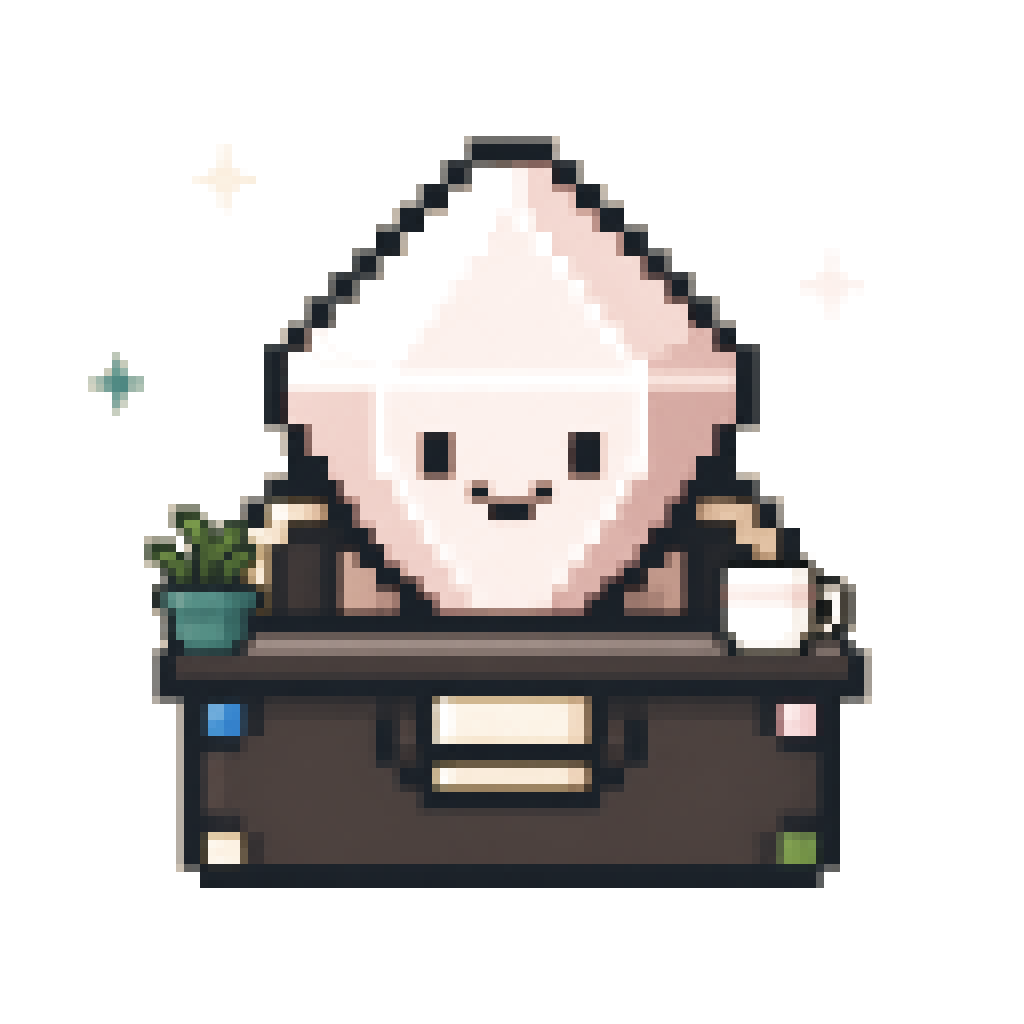
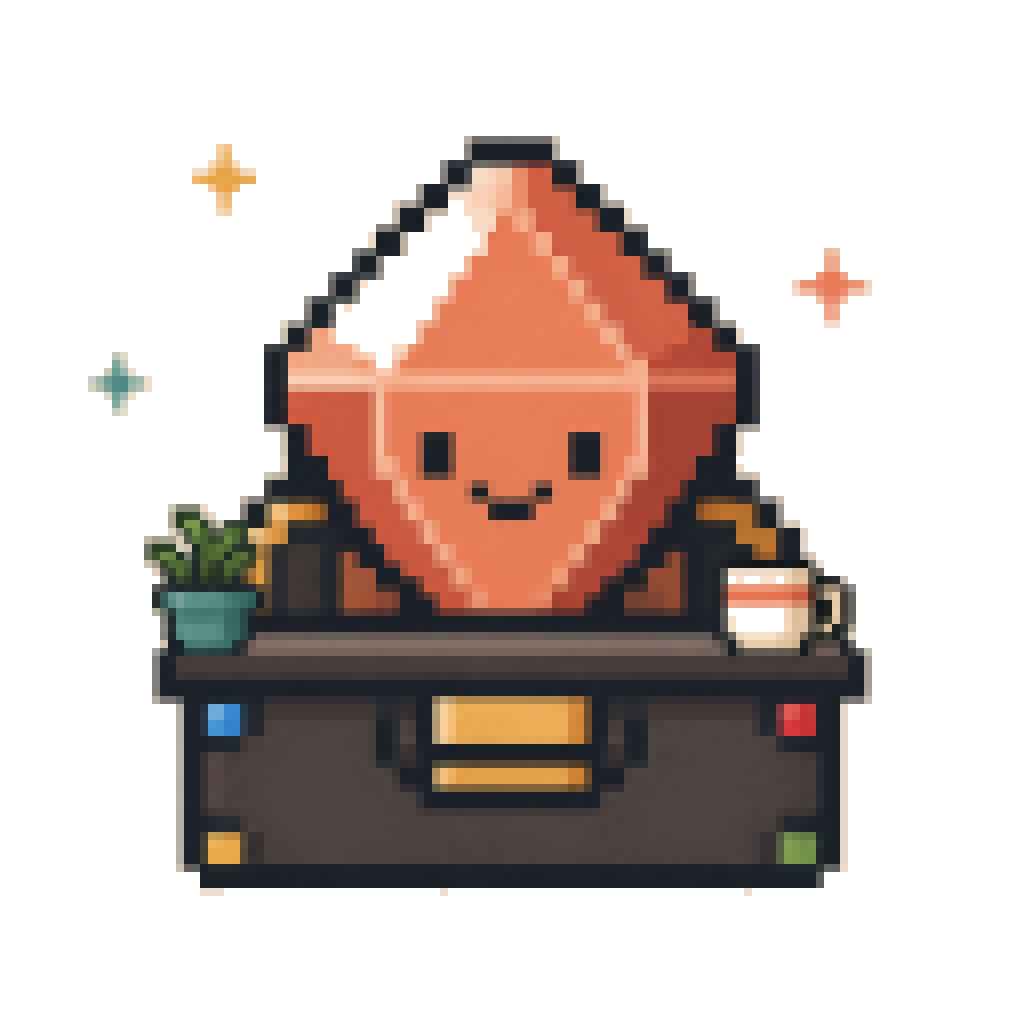
document scalable branches and refine portal identity

diff --git a/apps/portal/src/app/globals.css b/apps/portal/src/app/globals.css
@@ -15,6 +15,7 @@
   --branch: #9a6145;
   --branch-soft: #ead5c6;
   --space: 1rem;
+  --display-font: ui-monospace, "SFMono-Regular", "Cascadia Mono", "Liberation Mono", monospace;
 }
 
 html[data-appearance="dark"] {
@@ -86,7 +87,7 @@ input:focus-visible, select:focus-visible, button:focus-visible, a:focus-visible
 input:disabled, select:disabled { opacity: .72; }
 h1, h2, h3, p { margin-top: 0; }
 h1, h2, h3 { letter-spacing: -.025em; }
-h1, h2 { font-family: Georgia, "Times New Roman", serif; }
+h1, h2 { font-family: var(--display-font); font-weight: 850; }
 p { line-height: 1.58; }
 
 .pixel-panel {
@@ -134,13 +135,13 @@ p { line-height: 1.58; }
 .button.tiny { min-height: 38px; padding: .45rem .8rem; }
 
 /* Shared identity */
-.brand-lockup { align-items: center; display: inline-flex; gap: .7rem; font-family: Georgia, serif; font-size: 1.45rem; font-weight: 700; text-decoration: none; }
+.brand-lockup { align-items: center; display: inline-flex; gap: .7rem; font-family: var(--display-font); font-size: 1.45rem; font-weight: 850; letter-spacing: -.055em; text-decoration: none; }
 .brand-lockup.compact { font-size: 1.15rem; }
 .canonical-mark { border: 2px solid var(--line); border-radius: 3px; image-rendering: pixelated; box-shadow: 3px 3px 0 var(--shadow); }
 .brand-wordmark { align-items: flex-end; display: inline-flex; flex-direction: column; gap: .32rem; text-decoration: none; width: max-content; }
 .brand-wordmark-type {
   color: var(--ink);
-  font-family: ui-monospace, "SFMono-Regular", "Cascadia Mono", "Liberation Mono", monospace;
+  font-family: var(--display-font);
   font-size: 1.72rem;
   font-weight: 950;
   letter-spacing: -.075em;
@@ -163,16 +164,16 @@ p { line-height: 1.58; }
 .login-shell { display: grid; grid-template-columns: minmax(0, 1.18fr) minmax(380px, .82fr); min-height: 100vh; }
 .login-illustration { background: #dfd2bd; border-right: 3px solid var(--line); min-height: 100vh; overflow: hidden; padding: 2.2rem 3rem; position: relative; }
 .login-panel { align-items: center; background: var(--paper); display: flex; justify-content: center; padding: 3rem; }
-.login-panel-inner { display: grid; gap: 1.3rem; justify-items: center; max-width: 540px; width: 100%; }
-.login-brand-lockup { align-items: center; display: flex; flex-direction: column; gap: .25rem; }
-.login-brand-mark { height: 112px; image-rendering: pixelated; object-fit: contain; width: 112px; }
+.login-panel-inner { max-width: 540px; width: 100%; }
+.login-brand-lockup { align-items: center; display: flex; flex-direction: column; gap: .25rem; margin-bottom: 2.3rem; }
+.login-brand-mark { height: 104px; image-rendering: pixelated; object-fit: contain; width: 104px; }
 .login-brand-lockup .brand-wordmark { align-items: center; }
 .login-brand-lockup .brand-wordmark-studs { margin-right: 0; }
-.login-card { background: var(--paper-strong); max-width: 540px; padding: clamp(1.6rem, 4vw, 2.7rem); width: 100%; }
+.login-card { background: var(--paper-strong); display: flex; flex-direction: column; justify-content: center; max-width: 540px; min-height: min(820px, calc(100vh - 6rem)); padding: clamp(1.8rem, 4vw, 3rem); width: 100%; }
 .login-card-heading { display: block; }
-.login-card h2 { font-family: ui-monospace, "SFMono-Regular", "Cascadia Mono", monospace; font-size: clamp(1.85rem, 3.2vw, 2.55rem); font-weight: 850; letter-spacing: -.07em; margin: .45rem 0 .75rem; white-space: nowrap; }
+.login-card h2 { font-size: clamp(1.85rem, 3.2vw, 2.55rem); font-weight: 850; letter-spacing: -.07em; margin: .45rem 0 .75rem; white-space: nowrap; }
 .login-copy { bottom: 7%; max-width: 640px; position: absolute; z-index: 2; }
-.login-copy h1 { font-family: ui-monospace, "SFMono-Regular", "Cascadia Mono", "Liberation Mono", monospace; font-size: clamp(3.5rem, 6vw, 6.2rem); font-weight: 900; letter-spacing: -.085em; line-height: .84; margin: .65rem 0 1.35rem; text-shadow: 3px 3px 0 color-mix(in srgb, var(--paper-strong) 72%, transparent); }
+.login-copy h1 { font-size: clamp(3rem, 4.6vw, 4.8rem); font-weight: 900; letter-spacing: -.085em; line-height: .88; margin: .65rem 0 1.35rem; text-shadow: 3px 3px 0 color-mix(in srgb, var(--paper-strong) 72%, transparent); }
 .login-copy p { font-size: 1.05rem; max-width: 580px; }
 .login-office-art { border: 3px solid var(--line); box-shadow: 7px 7px 0 color-mix(in srgb, var(--line) 28%, transparent); height: 36%; image-rendering: pixelated; left: 5%; object-fit: cover; object-position: 50% 48%; position: absolute; top: 13%; width: 91%; }
 .auth-stack { margin-top: 1.6rem; }
@@ -199,7 +200,7 @@ p { line-height: 1.58; }
 .account-chip small { color: var(--muted); font-size: .65rem; font-weight: 600; text-transform: capitalize; }
 .portal-main { margin: 0 auto; max-width: 1500px; padding: clamp(2rem, 5vw, 4.5rem) clamp(1rem, 4vw, 3.5rem) 3rem; }
 .hero-row { align-items: end; display: flex; justify-content: space-between; margin-bottom: 2rem; }
-.hero-row h1 { font-size: clamp(2.8rem, 6vw, 5.6rem); line-height: .95; margin: .4rem 0 .75rem; }
+.hero-row h1 { font-size: clamp(2.8rem, 6vw, 5.6rem); font-weight: 900; letter-spacing: -.08em; line-height: .9; margin: .4rem 0 .75rem; text-shadow: 3px 3px 0 color-mix(in srgb, var(--paper-strong) 72%, transparent); }
 .hero-row p { color: var(--muted); margin: 0; }
 .pair-action { display: flex; flex-direction: column; gap: .35rem; }
 .pairing-ticket { background: var(--paper-strong); border: 2px solid var(--line); box-shadow: 4px 4px 0 var(--shadow); min-width: 300px; padding: 1rem; }
@@ -215,7 +216,7 @@ p { line-height: 1.58; }
 .branch-card { background: var(--paper-strong); overflow: hidden; }
 .branch-header { align-items: center; background: color-mix(in srgb, var(--branch-soft) 65%, var(--paper-strong)); border-bottom: 2px solid var(--line); color: #292622; display: grid; gap: .8rem; grid-template-columns: auto 1fr auto; padding: calc(var(--space) * 1.1); }
 .branch-header .eyebrow { color: #716b62; }
-.branch-header h2 { font-size: 1.6rem; margin: .12rem 0 0; }
+.branch-header h2 { font-size: 1.55rem; font-weight: 850; letter-spacing: -.06em; margin: .12rem 0 0; }
 .branch-swatch { background: var(--branch); border: 2px solid var(--line); box-shadow: 3px 3px 0 color-mix(in srgb, var(--branch) 35%, var(--shadow)); height: 34px; width: 34px; }
 .favorite-button { background: transparent; border: 0; color: var(--line-soft); cursor: pointer; font-size: 1.45rem; padding: .35rem; }
 .favorite-button.active { color: #c88428; text-shadow: 1px 1px 0 var(--line); }
@@ -249,8 +250,6 @@ p { line-height: 1.58; }
 .paper-card { background: var(--paper-strong); padding: 2rem; }
 .empty-state { text-align: center; }
 .empty-state h2 { font-size: 2rem; margin: .45rem 0; }
-.portal-footer { border-top: 2px solid var(--line-soft); color: var(--muted); display: flex; font-size: .7rem; justify-content: space-between; margin-top: 2.5rem; padding-top: 1rem; }
-.portal-footer span { align-items: center; display: flex; gap: .45rem; }
 .center-stage { align-items: center; display: flex; justify-content: center; min-height: 100vh; padding: 2rem; }
 .narrow-card { max-width: 600px; }
 
@@ -356,14 +355,16 @@ p { line-height: 1.58; }
   .login-illustration { border-bottom: 3px solid var(--line); border-right: 0; min-height: 650px; padding: 1.25rem; }
   .login-panel { padding: 2rem 1rem; }
   .login-copy { bottom: 1.75rem; left: 1.25rem; max-width: none; right: 1.25rem; width: auto; }
-  .login-copy h1 { font-size: clamp(2rem, 8.6vw, 2.25rem); letter-spacing: -.095em; overflow-wrap: normal; }
+  .login-copy h1 { font-size: clamp(1.8rem, 7.8vw, 2rem); letter-spacing: -.095em; overflow-wrap: normal; }
   .login-copy .eyebrow { font-size: .61rem; letter-spacing: .11em; }
   .login-copy p { font-size: .94rem; max-width: none; }
   .login-office-art { height: 235px; left: 1.25rem; object-position: 50% 48%; right: auto; top: 5.5rem; width: calc(100% - 2.5rem); }
   .hero-wordmark .brand-wordmark-type { font-size: 1.45rem; }
-  .login-brand-mark { height: 96px; width: 96px; }
+  .login-brand-lockup { margin-bottom: 1.9rem; }
+  .login-brand-mark { height: 88px; width: 88px; }
+  .login-card { min-height: calc(100vh - 4rem); }
   .login-card h2 { font-size: clamp(1.75rem, 9vw, 2.35rem); }
-  .inline-form, .hero-row, .run-strip, .portal-footer { align-items: stretch; flex-direction: column; }
+  .inline-form, .hero-row, .run-strip { align-items: stretch; flex-direction: column; }
   .portal-main { padding-top: 2rem; }
   .hero-row { gap: 1.3rem; }
   .hero-row .button, .hero-row .pair-action { width: 100%; }

diff --git a/apps/portal/src/app/page.tsx b/apps/portal/src/app/page.tsx
@@ -40,18 +40,18 @@ function LoginPage() {
           width="1448"
         />
         <div className="login-copy">
-          <span className="eyebrow">The firm, in motion</span>
-          <h1>Every branch.<br />One firm.</h1>
-          <p>Watch each machine, follow the work as it moves, and step in from wherever you are.</p>
+          <span className="eyebrow">Branch by branch, from any device</span>
+          <h1>Scale your agent operations without scaling your attention.</h1>
+          <p>Operatus is an AI operator for running work across every machine—whether you grow one powerful Branch or add many.</p>
         </div>
       </section>
       <section className="login-panel">
         <div className="login-panel-inner">
-          <div className="login-brand-lockup">
-            <img aria-hidden="true" className="login-brand-mark" height="1024" src="/operatus-mark-transparent.png" width="1024" />
-            <BrandWordmark />
-          </div>
           <div className="login-card pixel-panel">
+            <div className="login-brand-lockup">
+              <img aria-hidden="true" className="login-brand-mark" height="1024" src="/operatus-mark-transparent.png?v=coral-2" width="1024" />
+              <BrandWordmark />
+            </div>
             <div className="login-card-heading">
               <span className="eyebrow">Agent firm control</span>
               <h2>Welcome back</h2>
@@ -240,10 +240,6 @@ export default async function Home({ searchParams }: PageProps) {
           </section>
         )}
 
-        <footer className="portal-footer">
-          <span><i className="presence-dot online" /> Identity-bound control plane</span>
-          <span>Each branch is one machine · Commands expire in five minutes</span>
-        </footer>
       </main>
     </div>
   );

diff --git a/apps/portal/src/app/layout.tsx b/apps/portal/src/app/layout.tsx
@@ -4,13 +4,13 @@ import "./globals.css";
 export const metadata: Metadata = {
   metadataBase: new URL(process.env.NEXT_PUBLIC_APP_URL ?? "https://operatus.vercel.app"),
   title: "Operatus — Agent Firm Control",
-  description: "An identity-bound operations floor for a scalable agent firm.",
+  description: "An AI operator for running work across every machine—branch by branch, from any device.",
   applicationName: "Operatus",
   manifest: "/manifest.webmanifest",
   icons: { icon: "/operatus-icon-192.png", apple: "/apple-touch-icon.png" },
   openGraph: {
     title: "Operatus — Agent Firm Control",
-    description: "Direct machine branches and agent ventures from anywhere.",
+    description: "Run agent operations across every machine—branch by branch, from any device.",
     images: [{ url: "/operatus-icon.png", width: 1024, height: 1024, alt: "Operatus mark" }],
   },
 };

diff --git a/docs/architecture/adr-project-branch-capacity.md b/docs/architecture/adr-project-branch-capacity.md
@@ -1,0 +1,206 @@
+# ADR: Projects, machine Branches, and capacity-shaped offices
+
+- Status: Accepted
+- Date: 2026-08-16
+- Owners: Operatus architecture
+
+## Context
+
+Operatus currently presents a Firm as a workspace containing Branches, with one
+Branch representing one durable machine identity. Repositories and projected
+runs are then associated with the paired node. This is sufficient for a single
+project per machine, but it becomes ambiguous when:
+
+- one project needs work from several machines;
+- one machine contributes to several unrelated projects;
+- a powerful machine should host more concurrent workers than a small laptop;
+- an operator wants a visual office that reflects configured capacity rather
+  than merely applying a different color theme; or
+- shared boards, roadmaps, skill locks, and published knowledge should span a
+  selected group of machines without moving local execution authority into the
+  hosted control plane.
+
+The product also needs to describe two legitimate scaling strategies. Vertical
+scaling increases concurrent agent capacity on one machine. Horizontal scaling
+adds more machine Branches. Operatus should make both strategies legible without
+pretending that a local socket, provider session, worktree, or Git checkout spans
+machines.
+
+## Decision
+
+Operatus will use the following hierarchy:
+
+```text
+Firm
+  → Project
+      → Branch allocation
+          → Branch (one physical machine)
+              → Venture / Gauntlet run
+                  → Worker / worktree / artifact
+```
+
+### Firm
+
+A Firm is the identity and policy boundary currently represented by a hosted
+workspace. It owns membership, the machine directory, shared policy, the pinned
+Skill Depot catalog, explicitly published knowledge, and durable audit history.
+It does not own local provider processes, local files, Git artifacts, or
+Gauntlet state transitions.
+
+### Project
+
+A Project is a shared work context inside a Firm. It may contain repository
+identities, task-board or roadmap integrations, shared goals, published
+knowledge, skill assignments, and redacted run history. A Project can use
+several Branches, and one Branch can participate in several Projects.
+
+Project selection changes the work context being viewed. It does not change the
+identity of the physical machine.
+
+### Branch
+
+A Branch remains one durable physical machine identity. A macOS, Windows, or
+Linux machine runs one Operatus node and appears as one named Branch in the
+Firm. Its name, visual theme, detected capabilities, presence, and pairing
+history survive project switches and temporary disconnection.
+
+A Branch may serve multiple Projects, but each local repository and run remains
+bound to the exact Branch that owns its files and process state.
+
+### Branch allocation
+
+The many-to-many relationship between Projects and Branches is represented by
+a Branch allocation. It records whether a Branch may serve a Project and the
+operator-defined limits for that pairing, including:
+
+- maximum concurrent workers;
+- maximum worktrees;
+- maximum concurrent Gauntlet runs;
+- allowed providers and models;
+- assigned immutable skill locks;
+- repository availability; and
+- optional scheduling priority.
+
+An allocation may narrow a Branch's global limits but may never exceed them.
+Changing an allocation does not rewrite historical runs.
+
+## Capacity model
+
+Each Branch reports detected capacity separately from operator limits.
+
+Detected capacity may include platform, architecture, CPU, memory, provider
+availability, current load, and health. These values are advisory observations.
+Operator limits are explicit policy and remain authoritative even when the
+machine could support more work.
+
+The initial limits are:
+
+- `maxConcurrentWorkers`;
+- `maxWorktrees`;
+- `maxConcurrentRuns`; and
+- a capacity mode of `fixed` or `assisted`.
+
+Assisted mode may recommend limits from observed resources, but it must not
+silently increase them. Local launch admission enforces the resolved limit.
+Hosted settings and floor graphics are projections of that policy, not the
+enforcement point.
+
+Vertical scale means raising capacity within one Branch. Horizontal scale means
+adding Branches and assigning them to Projects. Automatic cross-Branch routing
+is not required for either model; operators may choose the destination Branch
+manually until a bounded scheduler is implemented.
+
+## Dynamic office visualization
+
+The office will be assembled from deterministic modular layouts rather than by
+shrinking a single finished illustration. A layout resolver receives the
+configured worker capacity, active roles, and viewport class and returns a
+stable set of stations and paths.
+
+The first layout bands are:
+
+| Configured worker capacity | Presentation |
+|---|---|
+| 1–4 | Compact studio |
+| 5–8 | Standard Branch office |
+| 9–12 | Expanded operations floor |
+| 13–16 | Large Branch floor |
+| More than 16 | Aggregated teams or departments |
+
+Every layout preserves a Conductor position, worker desks, evidence/Critic
+space, repair space, valid movement paths, and accessible non-color labels.
+Configured but idle capacity appears as available desks. Active workers occupy
+those desks. Capacity above the visual upper bound is summarized rather than
+rendered as unreadably small characters.
+
+Layout selection, character positions, animation, and office decoration remain
+non-authoritative projections. They cannot launch workers, change limits,
+acknowledge Critic reports, or alter run state.
+
+## Branch onboarding
+
+Adding a Branch to a Firm will use a short setup flow:
+
+1. Name the Branch and choose its visual theme.
+2. Pair one physical node.
+3. Review detected resources, providers, and health.
+4. Select a capacity preset or explicit limits.
+5. Select the Projects the Branch may serve.
+6. Choose allowed providers, models, and skills for each allocation.
+7. Preview the resulting office layout.
+8. Confirm the policy and bring the Branch online.
+
+All choices remain editable. Lowering capacity stops new launches from being
+admitted but does not terminate active work unless the operator performs a
+separate explicit action.
+
+## Data-model direction
+
+The hosted schema will evolve additively:
+
+- `workspaces` continue to represent Firms during migration;
+- add `projects` scoped to a Firm;
+- add `project_branches` for many-to-many allocation and project-specific
+  limits;
+- move repository membership into a Project while retaining its owning node;
+- add a versioned Branch capacity profile with detected and operator-defined
+  fields kept separate; and
+- include resolved capacity and layout receipts in redacted projections.
+
+Existing personal Firms receive one default Project. Existing Branch, node,
+repository, and run identities remain stable. Migrations must retain RLS,
+explicit grants, append-only audit events, and one active node per Branch.
+
+## Authority and coordination
+
+The hosted Firm and Project layers may coordinate shared boards, sealed work
+orders, immutable skill locks, and redacted status. They do not become Git or
+Gauntlet authority. Every destination Branch revalidates work locally against
+its allocation, capacity, repository availability, and current run state.
+
+Cross-Branch automation, when added, will send bounded work orders through the
+authenticated relay. It will not expose one machine's local socket, terminal,
+credentials, or filesystem to another machine.
+
+## Consequences
+
+This decision adds a Project layer and an explicit many-to-many allocation,
+which is more structured than the current tree. In return it prevents physical
+machines, work contexts, and visual offices from being conflated. It supports
+side projects, fleet-wide initiatives, vertically scaled compute, horizontally
+scaled fleets, and capacity-aware presentation without changing the local
+authority model.
+
+The main implementation cost is coordinated schema, onboarding, admission
+control, and renderer work. Fully automatic scheduling is intentionally deferred
+until manual Branch selection, shared Project views, and capacity enforcement
+are trustworthy.
+
+## Delivery sequence
+
+1. Add Projects and Branch allocations with a default-project migration.
+2. Add Branch capacity profiles and the onboarding/settings flow.
+3. Enforce worker, worktree, and run admission limits locally.
+4. Add deterministic modular office layouts and capacity receipts.
+5. Add Project-wide boards, run aggregation, and repository views.
+6. Add optional bounded cross-Branch routing after the manual model is proven.

diff --git a/docs/assets/PROVENANCE.md b/docs/assets/PROVENANCE.md
@@ -28,9 +28,9 @@ Restricted Munder/LimeZu tiles, maps, base character sheets, recolors, screensho
 ### Freestanding portal mark
 
 - Runtime asset: `apps/portal/public/operatus-mark-transparent.png` (1024×1024).
[2 lines of base64/hex data omitted]
 - Source: the adopted `apps/portal/public/operatus-icon.png`; no generative restyling was accepted.
-- Production processing: the uniform warm-cream border color was sampled and removed with the image-generation skill's chroma-key helper, using a soft alpha edge and no despill so the coral gem, teal plant, cream cup, sparkles, and four status colors remain faithful to the canonical icon.
+- Production processing: the uniform warm-cream border color was sampled and removed with the image-generation skill's chroma-key helper using a hard eight-point tolerance and no despill. The hard alpha edge corrects the earlier washed-out portal rendering by keeping the coral gem, teal plant, cream cup, sparkles, and four status colors fully opaque and saturated.
 - Intended use: a borderless identity mark over the hosted sign-in surface. The original opaque icon remains authoritative for dock, favicon, PWA, and social uses.
 
 ## Hosted portal collaboration scene — 2026-08-16
